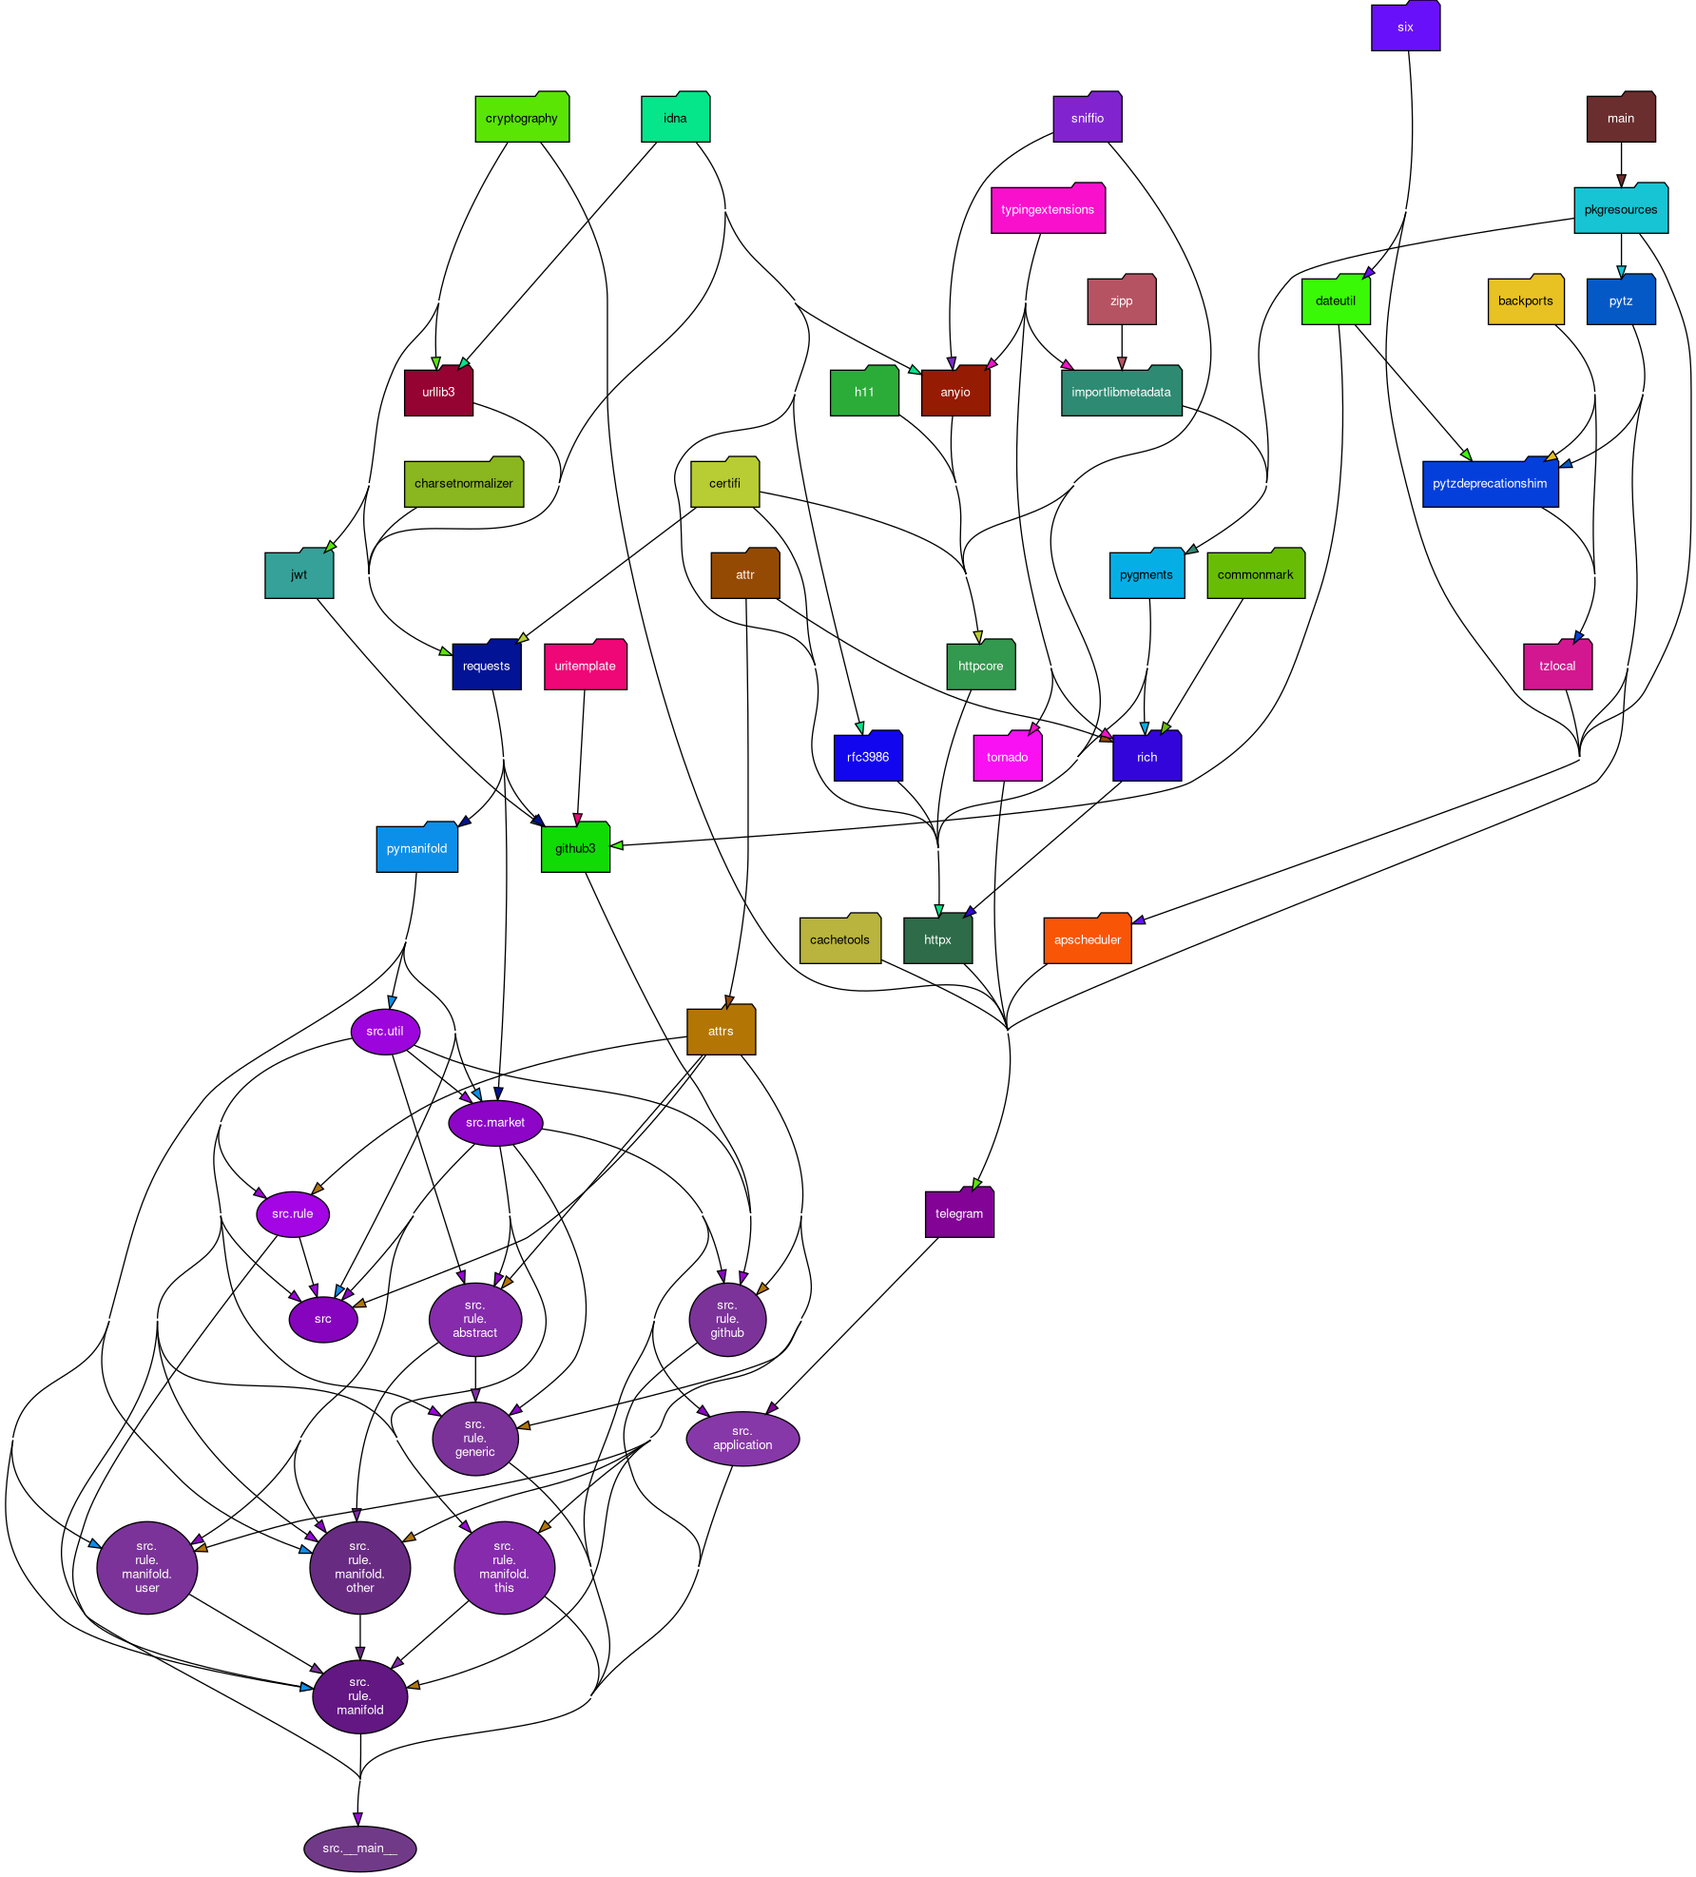
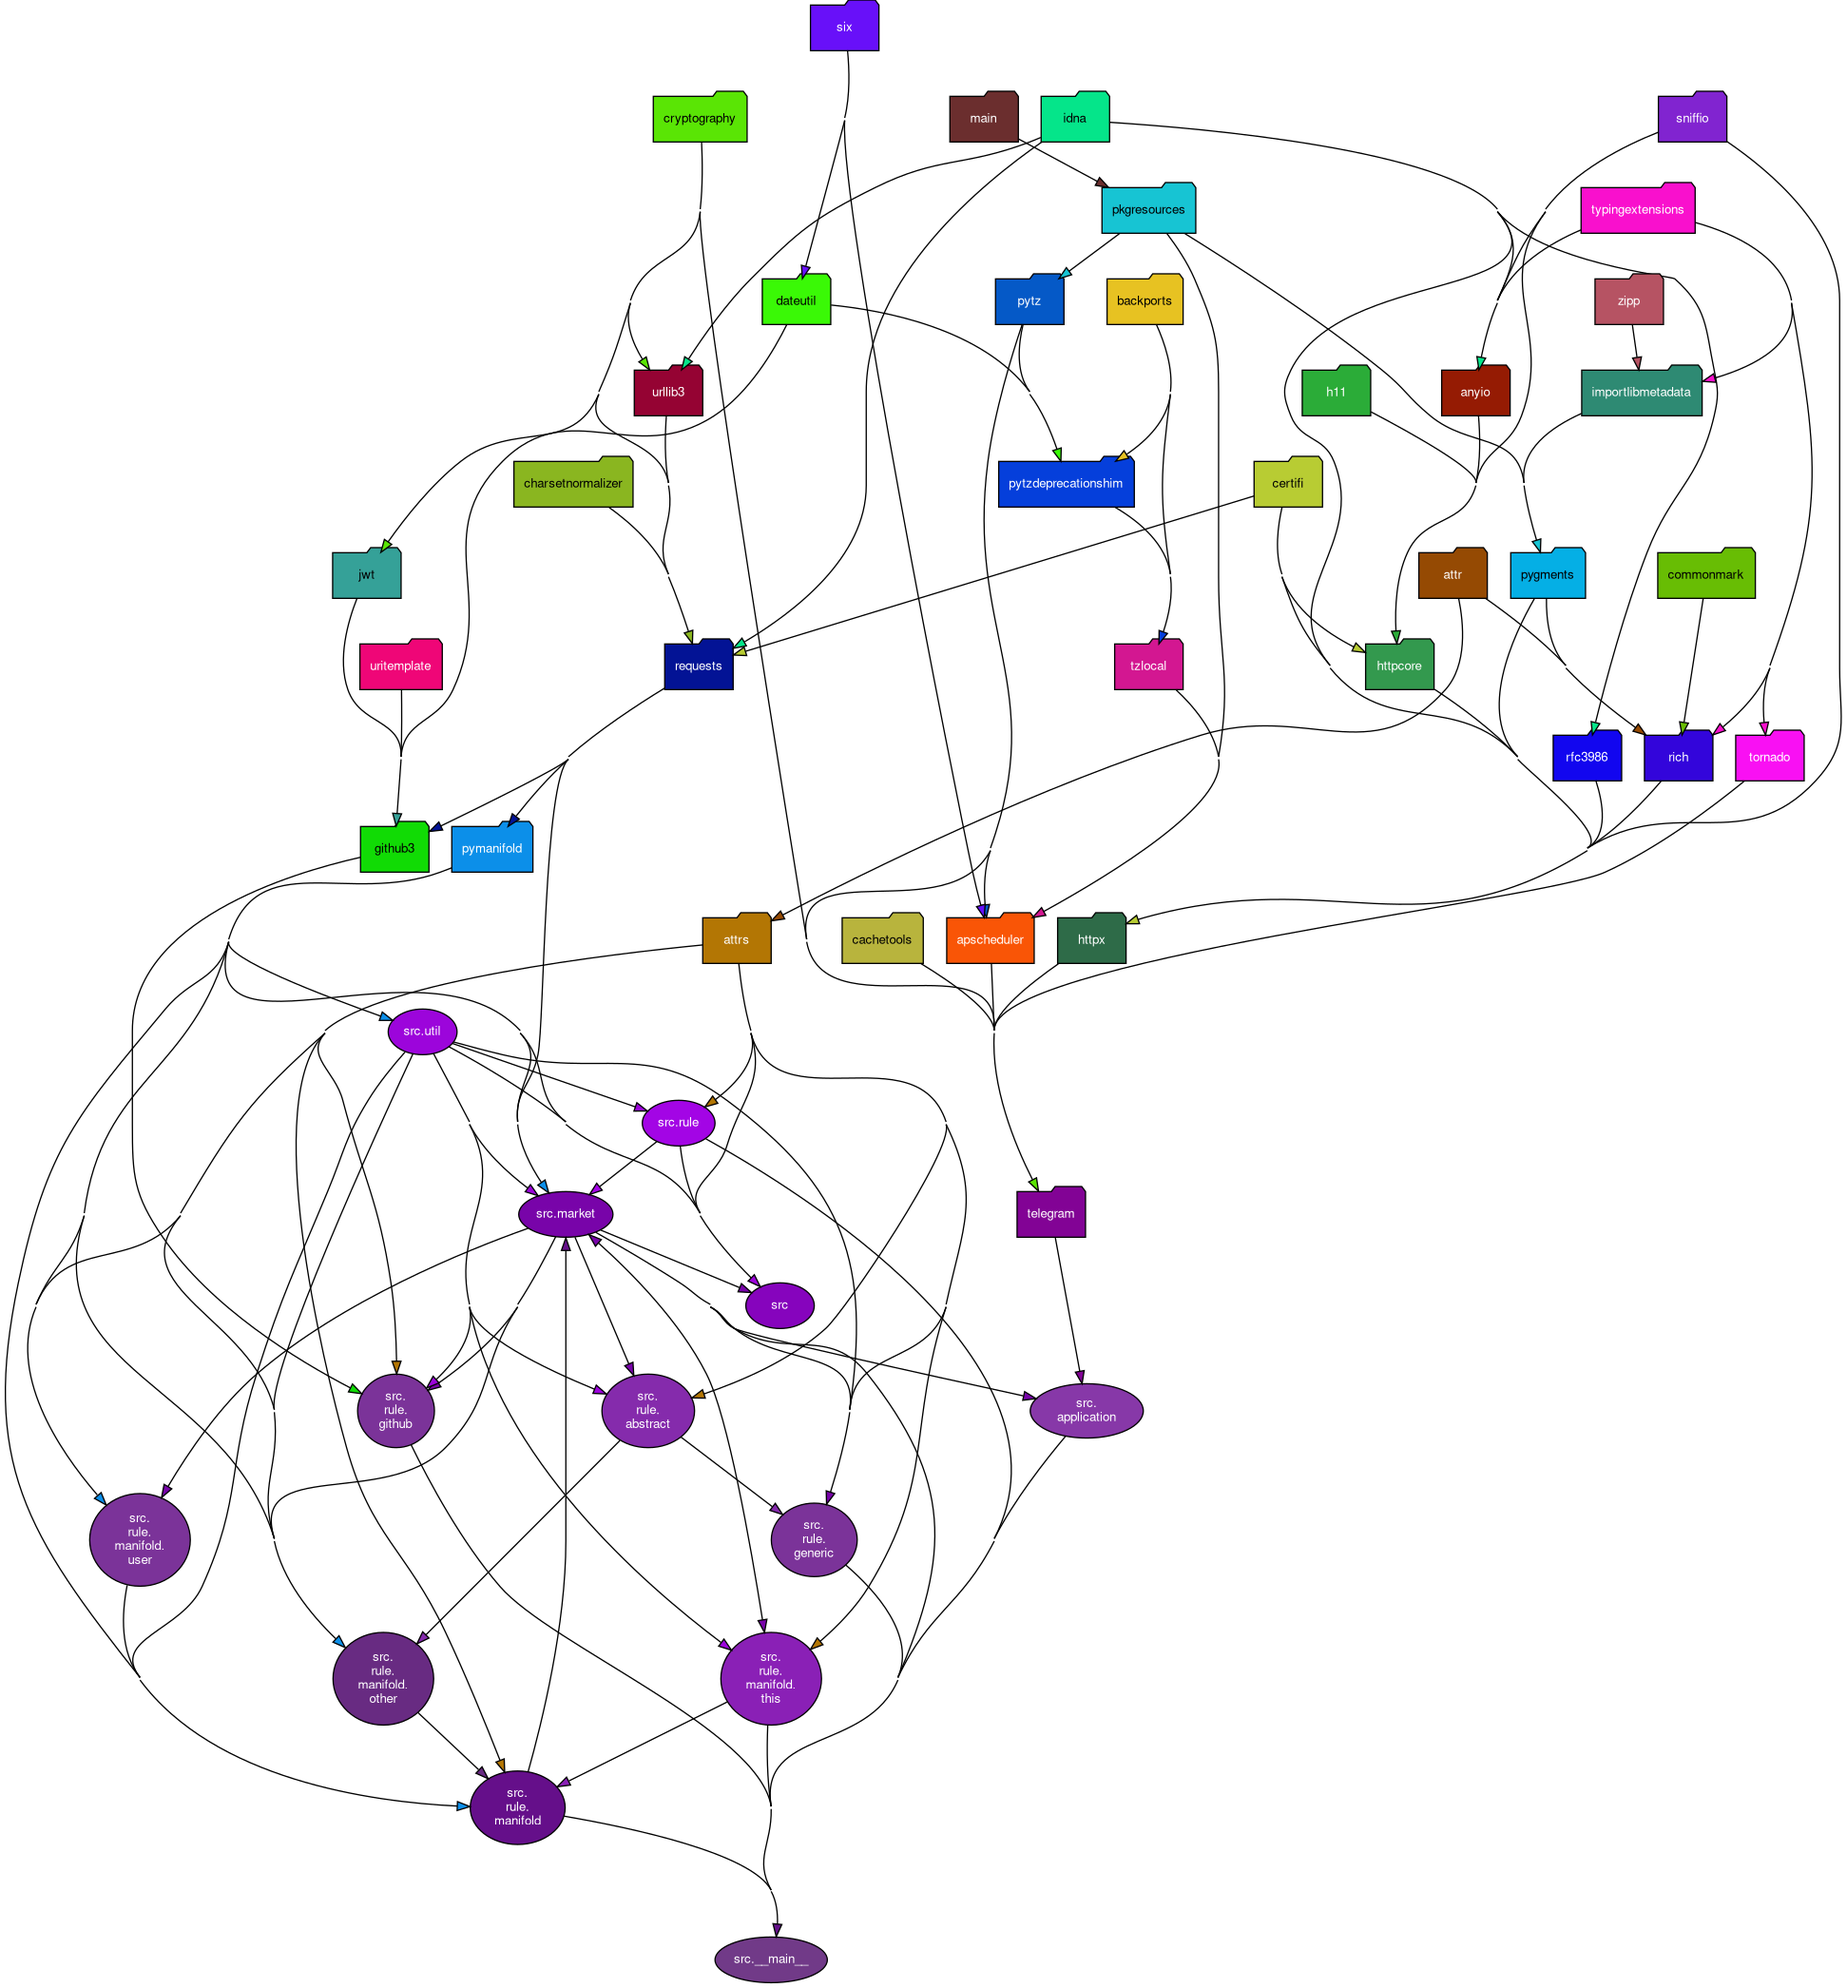
Attempt to redirect current_answer() to CurrentAnswerRule

diff --git a/src/market.py b/src/market.py
@@ -6,8 +6,7 @@ from logging import getLogger
 from time import time
 from typing import TYPE_CHECKING, cast
 
-from .util import (explain_abstract, get_client, market_to_answer_map, number_to_prob_cpmm1, pool_to_number_cpmm1,
-                   require_env, round_sig_figs)
+from .util import explain_abstract, get_client, number_to_prob_cpmm1, require_env, round_sig_figs
 
 if TYPE_CHECKING:  # pragma: no cover
     from logging import Logger
@@ -181,26 +180,10 @@ class Market:
             raise RuntimeError()
         return chosen
 
-    def current_answer(self) -> str | AnyResolution:
-        """Return the current top (single) answer."""
-        # TODO: move these behaviors to a rule class
-        if self.market.outcomeType == "BINARY":
-            assert isinstance(self.market.probability, float)
-            return f"{100 * self.market.probability}%"
-        elif self.market.outcomeType == "PSEUDO_NUMERIC":
-            assert not isinstance(self.market.pool, float)
-            assert isinstance(self.market.p, float)
-            return pool_to_number_cpmm1(
-                self.market.pool['YES'],
-                self.market.pool['NO'],
-                self.market.p,
-                float(self.market.min or 0),
-                float(self.market.max or 0),
-                bool(self.market.isLogScale)
-            )
-        elif self.market.outcomeType in ("FREE_RESPONSE", "MULTIPLE_CHOICE"):
-            market_to_answer_map(self.market)
-        raise NotImplementedError(self.market.outcomeType)
+    def current_answer(self) -> AnyResolution:
+        """Return the current market consensus."""
+        from .rule.manifold.this import CurrentValueRule
+        return CurrentValueRule().value(self, format=self.market.outcomeType)
 
     @require_env("ManifoldAPIKey")
     def resolve(self, override: Optional[AnyResolution] = None) -> Response:

diff --git a/src/__init__.py b/src/__init__.py
@@ -149,7 +149,7 @@ register_converter("Rule", loads)
 register_adapter(market.Market, dumps)
 register_converter("Market", loads)
 
-VERSION = "0.6.0.46"
+VERSION = "0.6.0.47"
 __version_info__ = tuple(int(x) for x in VERSION.split('.'))
 __all__ = [
     "__version_info__", "VERSION", "AnyResolution", "BinaryResolution", "DoResolveRule", "FreeResponseResolution",
